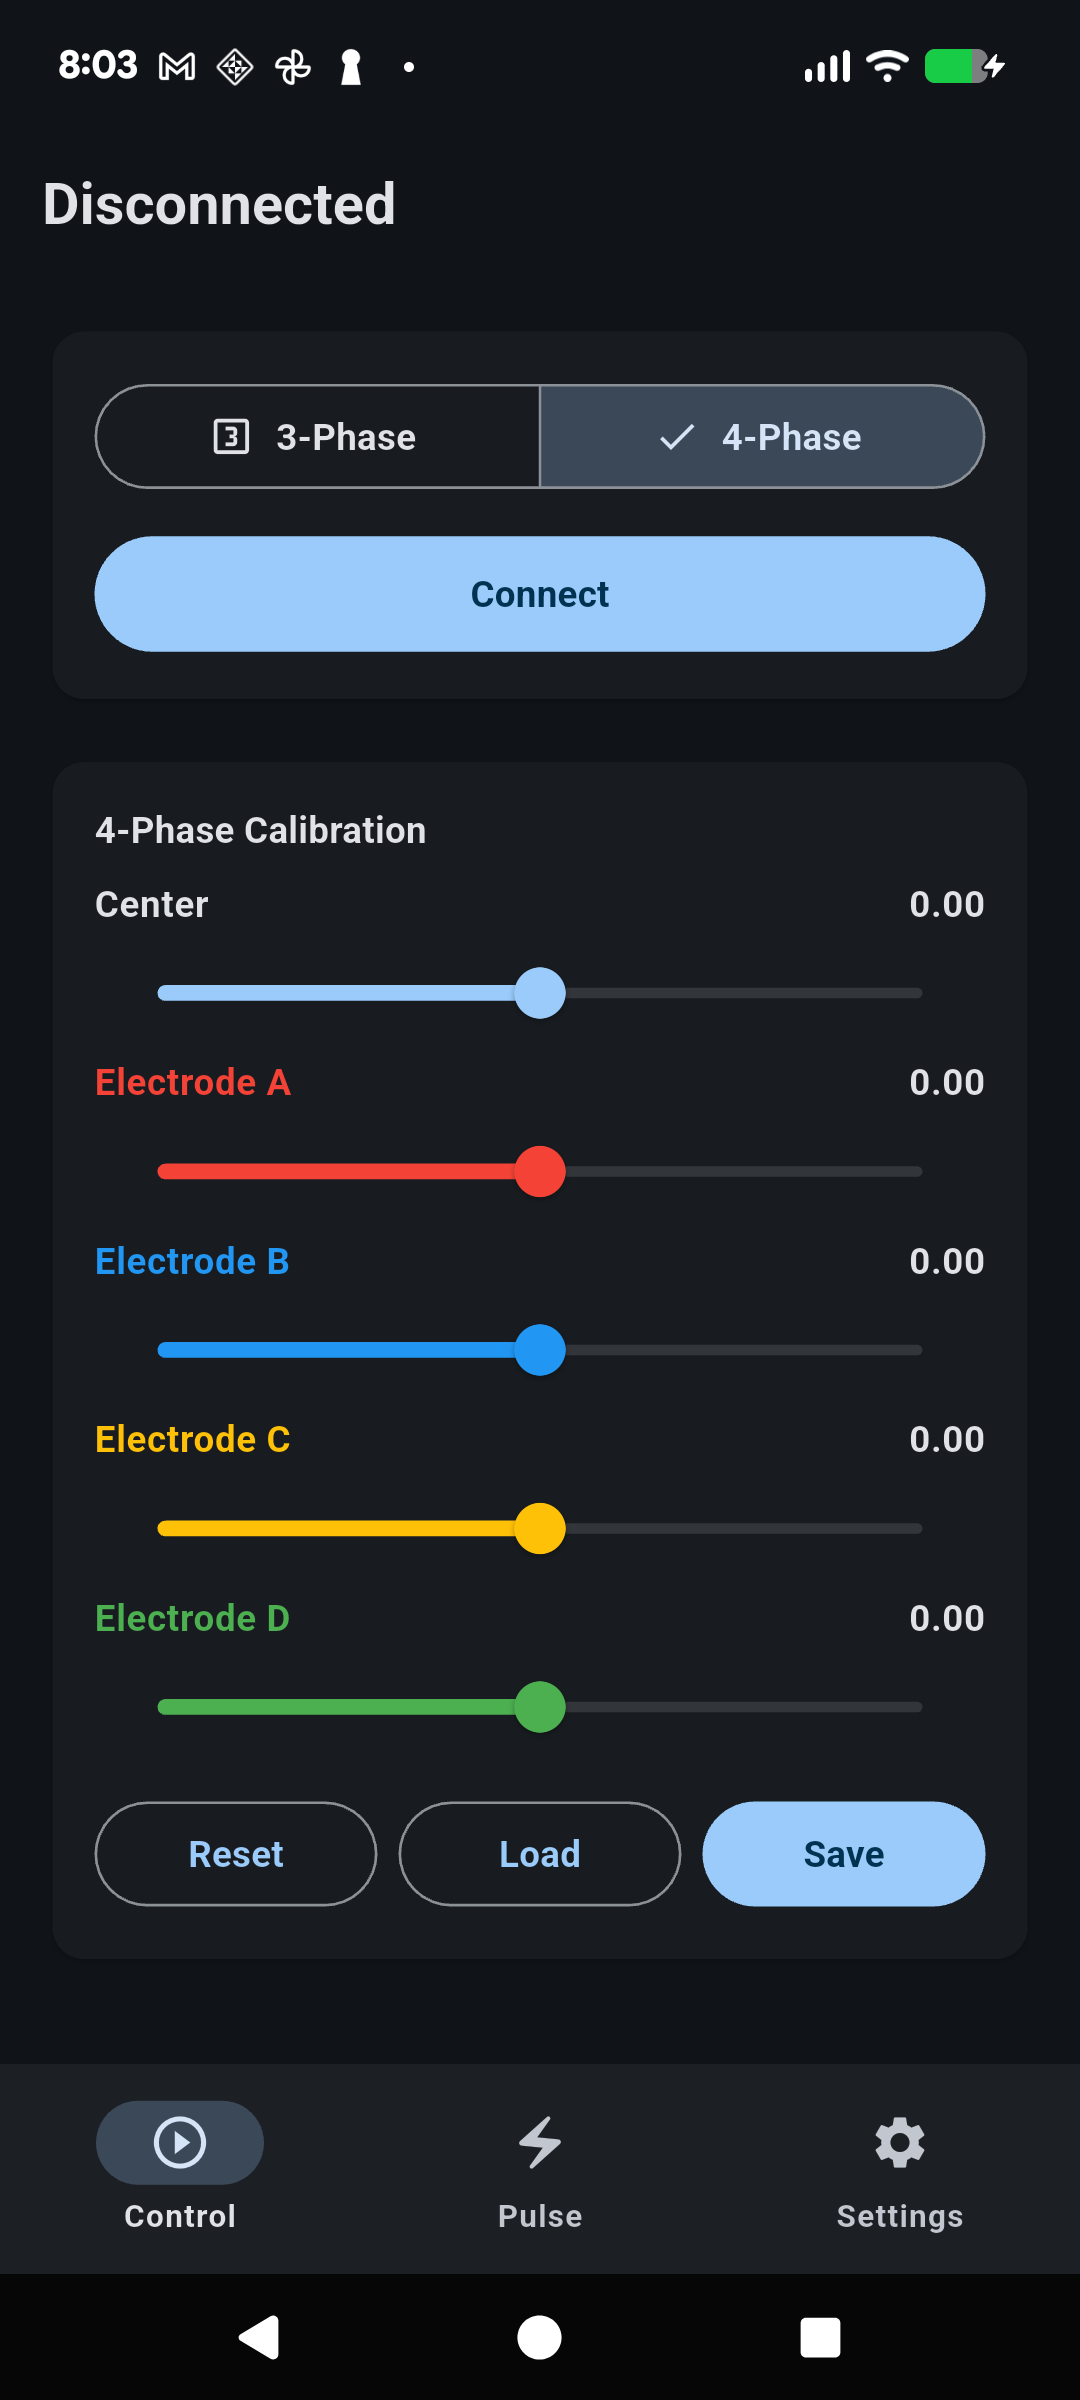
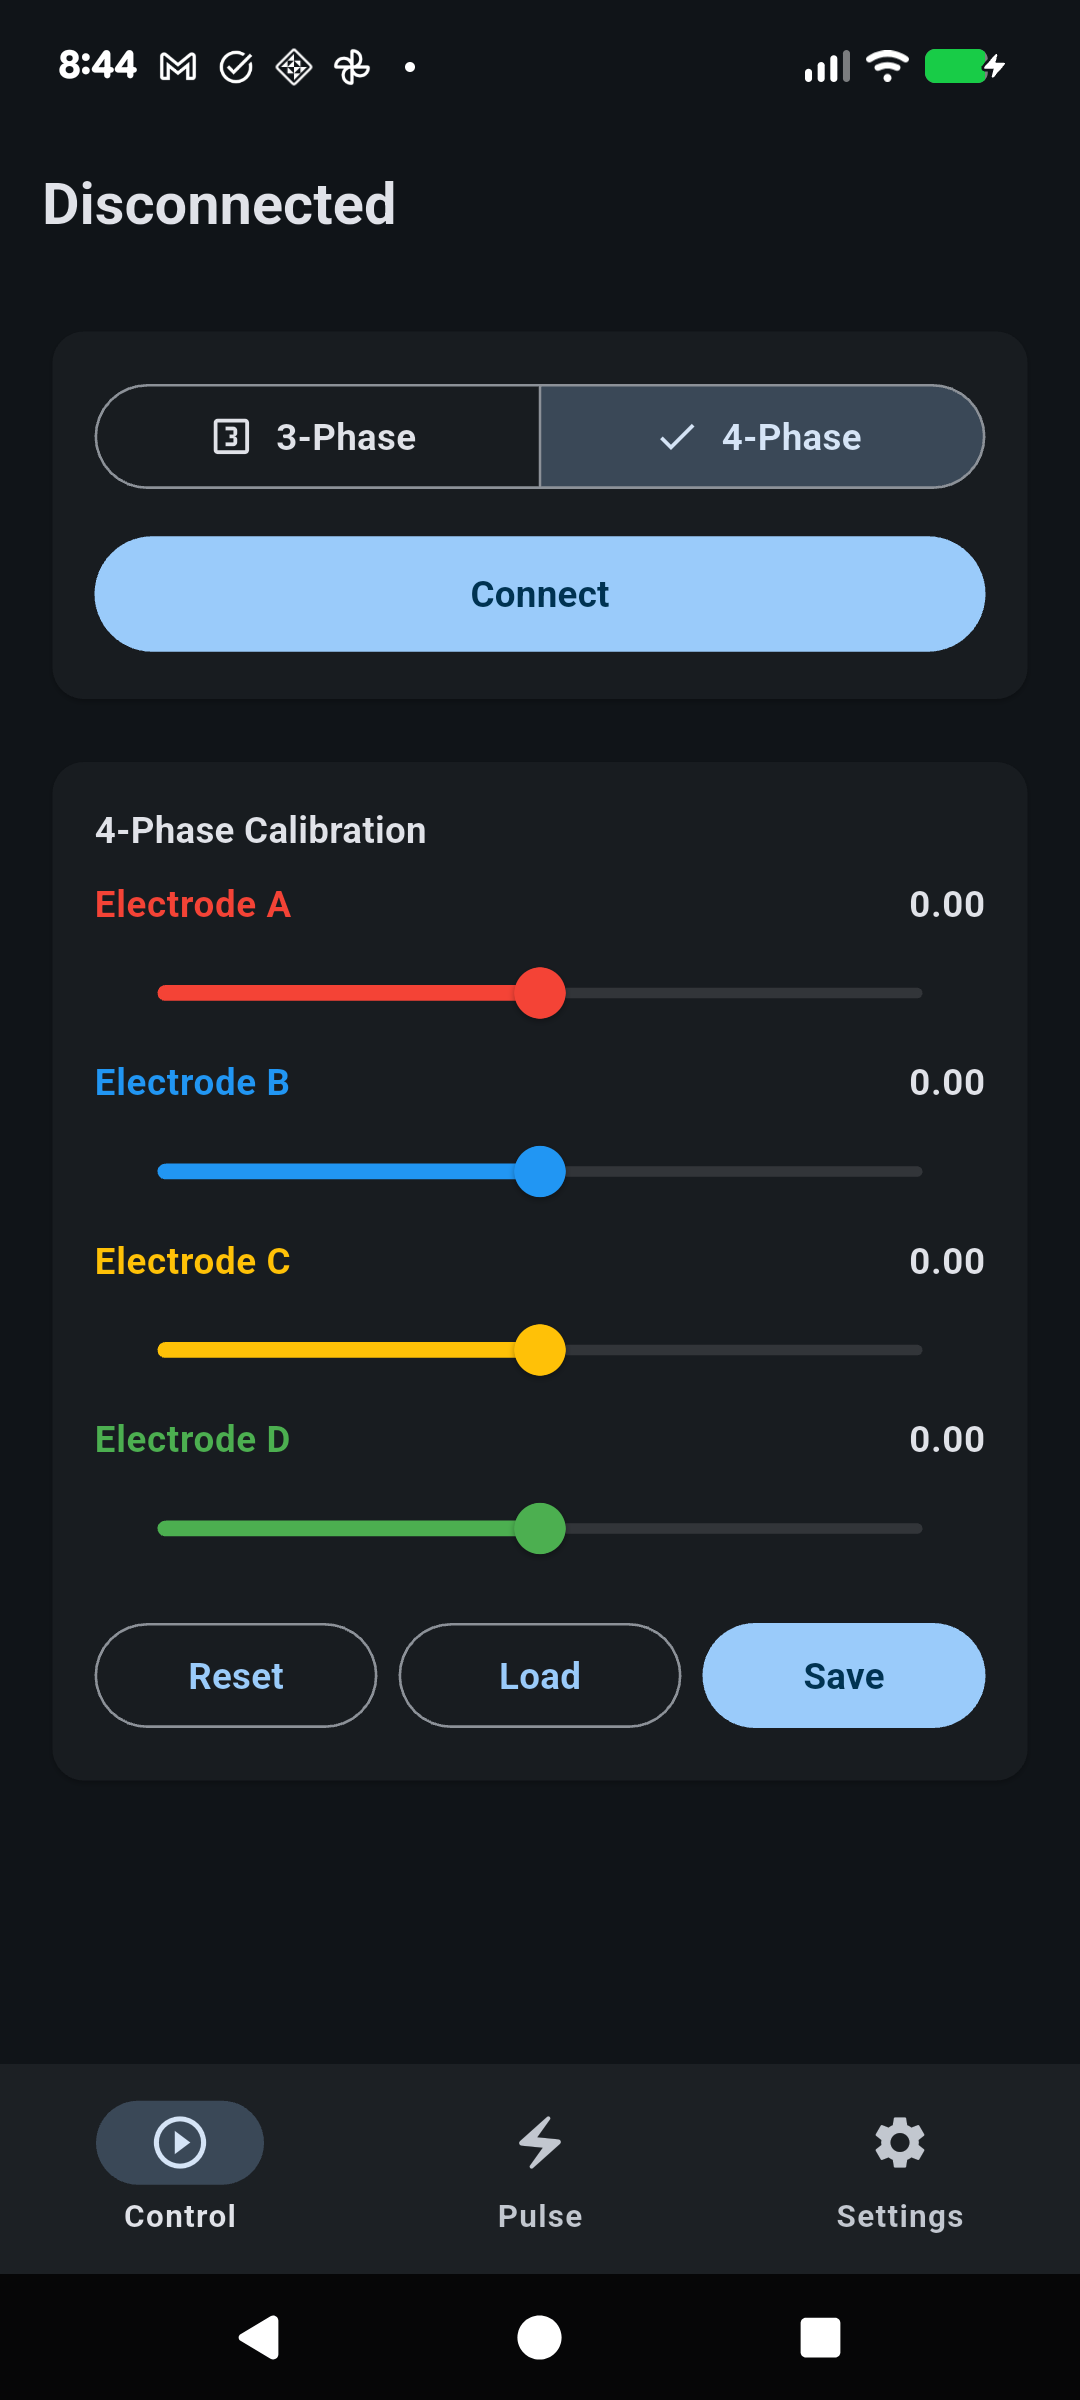
fix: remove unsupported 4-phase Center calibration and correct 3-phase output colors; bump version to 1.1.2

diff --git a/foc-companion/lib/screens/control_screen.dart b/foc-companion/lib/screens/control_screen.dart
@@ -4,6 +4,7 @@ import 'package:foc_companion/models/settings_models.dart';
 import 'package:foc_companion/providers/device_provider.dart';
 import 'package:foc_companion/providers/settings_provider.dart';
 import 'package:foc_companion/core/patterns.dart';
+import 'package:foc_companion/widgets/gradient_slider_track.dart';
 
 class ControlScreen extends StatelessWidget {
   const ControlScreen({super.key});
@@ -78,15 +79,14 @@ class _CalibrationCardState extends State<_CalibrationCard> {
             ),
             const SizedBox(height: 8),
             if (is4Phase) ...[
-              _buildSlider('Center', d.calibration4Center, (v) => d.calibration4Center = v),
               _buildSlider('Electrode A', d.calibration4A, (v) => d.calibration4A = v, color: Colors.red),
               _buildSlider('Electrode B', d.calibration4B, (v) => d.calibration4B = v, color: Colors.blue),
               _buildSlider('Electrode C', d.calibration4C, (v) => d.calibration4C = v, color: Colors.amber),
               _buildSlider('Electrode D', d.calibration4D, (v) => d.calibration4D = v, color: Colors.green),
             ] else ...[
-              _buildSlider('Center', d.calibration3Center, (v) => d.calibration3Center = v, color: Colors.red),
-              _buildSlider('Up', d.calibration3Up, (v) => d.calibration3Up = v, color: Colors.blue),
-              _buildSlider('Left', d.calibration3Left, (v) => d.calibration3Left = v, color: Colors.amber),
+              _buildSlider('Center', d.calibration3Center, (v) => d.calibration3Center = v),
+              _buildSlider('Up', d.calibration3Up, (v) => d.calibration3Up = v, color: Colors.red),
+              _buildLeftRightSlider(d.calibration3Left, (v) => d.calibration3Left = v),
             ],
             const SizedBox(height: 8),
             Row(
@@ -137,6 +137,40 @@ class _CalibrationCardState extends State<_CalibrationCard> {
           ],
         ),
       ),
+    );
+  }
+
+  Widget _buildLeftRightSlider(double value, void Function(double) onSet) {
+    const leftColor = Colors.blue;
+    const rightColor = Colors.amber;
+    return Column(
+      crossAxisAlignment: CrossAxisAlignment.start,
+      children: [
+        Row(
+          mainAxisAlignment: MainAxisAlignment.spaceBetween,
+          children: [
+            const Text('Left',
+                style: TextStyle(color: leftColor, fontWeight: FontWeight.w500)),
+            Text(value.toStringAsFixed(2)),
+            const Text('Right',
+                style: TextStyle(color: rightColor, fontWeight: FontWeight.w500)),
+          ],
+        ),
+        SliderTheme(
+          data: SliderTheme.of(context).copyWith(
+            trackShape: const GradientSliderTrackShape(
+              startColor: leftColor,
+              endColor: rightColor,
+            ),
+          ),
+          child: Slider(
+            value: value.clamp(-2.0, 2.0),
+            min: -2,
+            max: 2,
+            onChanged: (v) => setState(() => onSet(v)),
+          ),
+        ),
+      ],
     );
   }
 

diff --git a/foc-companion/lib/screens/device_settings_screen.dart b/foc-companion/lib/screens/device_settings_screen.dart
@@ -2,6 +2,7 @@ import 'package:flutter/material.dart';
 import 'package:provider/provider.dart';
 import 'package:foc_companion/models/settings_models.dart';
 import 'package:foc_companion/providers/settings_provider.dart';
+import 'package:foc_companion/widgets/gradient_slider_track.dart';
 
 class DeviceSettingsScreen extends StatefulWidget {
   const DeviceSettingsScreen({super.key});
@@ -29,7 +30,6 @@ class _DeviceSettingsScreenState extends State<DeviceSettingsScreen> {
             min: -2,
             max: 2,
             onChanged: (v) => setState(() => d.calibration3Center = v),
-            color: Colors.red,
           ),
           _buildSlider(
             label: "Up",
@@ -37,27 +37,16 @@ class _DeviceSettingsScreenState extends State<DeviceSettingsScreen> {
             min: -2,
             max: 2,
             onChanged: (v) => setState(() => d.calibration3Up = v),
-            color: Colors.blue,
+            color: Colors.red,
           ),
-          _buildSlider(
-            label: "Left",
+          _buildLeftRightSlider(
             value: d.calibration3Left,
-            min: -2,
-            max: 2,
             onChanged: (v) => setState(() => d.calibration3Left = v),
-            color: Colors.amber,
           ),
         ] else ...[
           const Text("4-Phase Calibration",
               style: TextStyle(fontSize: 18, fontWeight: FontWeight.bold)),
           const SizedBox(height: 10),
-          _buildSlider(
-            label: "Center",
-            value: d.calibration4Center,
-            min: -2,
-            max: 2,
-            onChanged: (v) => setState(() => d.calibration4Center = v),
-          ),
           _buildSlider(
             label: "Electrode A",
             value: d.calibration4A,
@@ -137,6 +126,43 @@ class _DeviceSettingsScreenState extends State<DeviceSettingsScreen> {
               ),
             ),
           ],
+        ),
+      ],
+    );
+  }
+
+  Widget _buildLeftRightSlider({
+    required double value,
+    required Function(double) onChanged,
+  }) {
+    const leftColor = Colors.blue;
+    const rightColor = Colors.amber;
+    return Column(
+      crossAxisAlignment: CrossAxisAlignment.start,
+      children: [
+        Row(
+          mainAxisAlignment: MainAxisAlignment.spaceBetween,
+          children: [
+            const Text('Left',
+                style: TextStyle(color: leftColor, fontWeight: FontWeight.w500)),
+            Text(value.toStringAsFixed(2)),
+            const Text('Right',
+                style: TextStyle(color: rightColor, fontWeight: FontWeight.w500)),
+          ],
+        ),
+        SliderTheme(
+          data: SliderTheme.of(context).copyWith(
+            trackShape: const GradientSliderTrackShape(
+              startColor: leftColor,
+              endColor: rightColor,
+            ),
+          ),
+          child: Slider(
+            value: value.clamp(-2.0, 2.0),
+            min: -2,
+            max: 2,
+            onChanged: onChanged,
+          ),
         ),
       ],
     );

diff --git a/foc-companion/lib/widgets/gradient_slider_track.dart b/foc-companion/lib/widgets/gradient_slider_track.dart
@@ -1,0 +1,52 @@
+import 'package:flutter/material.dart';
+
+/// Paints the full slider track as a horizontal linear gradient,
+/// ignoring the active/inactive split used by the default track shape.
+class GradientSliderTrackShape extends RoundedRectSliderTrackShape {
+  final Color startColor;
+  final Color endColor;
+
+  const GradientSliderTrackShape({
+    required this.startColor,
+    required this.endColor,
+  });
+
+  @override
+  void paint(
+    PaintingContext context,
+    Offset offset, {
+    required RenderBox parentBox,
+    required SliderThemeData sliderTheme,
+    required Animation<double> enableAnimation,
+    required TextDirection textDirection,
+    required Offset thumbCenter,
+    Offset? secondaryOffset,
+    bool isDiscrete = false,
+    bool isEnabled = false,
+    double additionalActiveTrackHeight = 2,
+  }) {
+    final trackRect = getPreferredRect(
+      parentBox: parentBox,
+      offset: offset,
+      sliderTheme: sliderTheme,
+      isEnabled: isEnabled,
+      isDiscrete: isDiscrete,
+    );
+
+    final paint = Paint()
+      ..shader =
+          LinearGradient(colors: [startColor, endColor]).createShader(trackRect);
+
+    final radius = Radius.circular(trackRect.height / 2);
+    context.canvas.drawRRect(
+      RRect.fromRectAndCorners(
+        trackRect,
+        topLeft: radius,
+        bottomLeft: radius,
+        topRight: radius,
+        bottomRight: radius,
+      ),
+      paint,
+    );
+  }
+}

diff --git a/foc-companion/lib/core/command_loop.dart b/foc-companion/lib/core/command_loop.dart
@@ -172,7 +172,6 @@ class FourPhaseCommandLoop {
     send(AxisType.AXIS_PULSE_RISE_TIME_CYCLES, _settings.pulse.pulseRiseTime);
     send(AxisType.AXIS_PULSE_INTERVAL_RANDOM_PERCENT,
         _settings.pulse.pulseIntervalRandom / 100.0);
-    send(AxisType.AXIS_CALIBRATION_4_CENTER, _settings.device.calibration4Center);
     send(AxisType.AXIS_CALIBRATION_4_A, _settings.device.calibration4A);
     send(AxisType.AXIS_CALIBRATION_4_B, _settings.device.calibration4B);
     send(AxisType.AXIS_CALIBRATION_4_C, _settings.device.calibration4C);
@@ -221,7 +220,6 @@ class FourPhaseCommandLoop {
     await send(AxisType.AXIS_PULSE_RISE_TIME_CYCLES, p.pulseRiseTime);
     await send(AxisType.AXIS_PULSE_INTERVAL_RANDOM_PERCENT,
         p.pulseIntervalRandom / 100.0);
-    await send(AxisType.AXIS_CALIBRATION_4_CENTER, d.calibration4Center);
     await send(AxisType.AXIS_CALIBRATION_4_A, d.calibration4A);
     await send(AxisType.AXIS_CALIBRATION_4_B, d.calibration4B);
     await send(AxisType.AXIS_CALIBRATION_4_C, d.calibration4C);

diff --git a/foc-companion/lib/models/settings_models.dart b/foc-companion/lib/models/settings_models.dart
@@ -107,7 +107,6 @@ class DeviceSettings {
   double calibration3Left = 0.0;
 
   // 4-Phase calibration
-  double calibration4Center = 0.0;
   double calibration4A = 0.0;
   double calibration4B = 0.0;
   double calibration4C = 0.0;
@@ -121,7 +120,6 @@ class DeviceSettings {
         'calibration3Center': calibration3Center,
         'calibration3Up': calibration3Up,
         'calibration3Left': calibration3Left,
-        'calibration4Center': calibration4Center,
         'calibration4A': calibration4A,
         'calibration4B': calibration4B,
         'calibration4C': calibration4C,
@@ -139,7 +137,6 @@ class DeviceSettings {
     calibration3Center = json['calibration3Center'] ?? -0.5;
     calibration3Up = json['calibration3Up'] ?? 0.0;
     calibration3Left = json['calibration3Left'] ?? 0.0;
-    calibration4Center = json['calibration4Center'] ?? 0.0;
     calibration4A = json['calibration4A'] ?? 0.0;
     calibration4B = json['calibration4B'] ?? 0.0;
     calibration4C = json['calibration4C'] ?? 0.0;

diff --git a/foc-companion/lib/providers/settings_provider.dart b/foc-companion/lib/providers/settings_provider.dart
@@ -54,7 +54,6 @@ class SettingsProvider with ChangeNotifier {
       ..calibration3Center = d.calibration3Center
       ..calibration3Up = d.calibration3Up
       ..calibration3Left = d.calibration3Left
-      ..calibration4Center = d.calibration4Center
       ..calibration4A = d.calibration4A
       ..calibration4B = d.calibration4B
       ..calibration4C = d.calibration4C
@@ -71,7 +70,6 @@ class SettingsProvider with ChangeNotifier {
       ..calibration3Center = saved.calibration3Center
       ..calibration3Up = saved.calibration3Up
       ..calibration3Left = saved.calibration3Left
-      ..calibration4Center = saved.calibration4Center
       ..calibration4A = saved.calibration4A
       ..calibration4B = saved.calibration4B
       ..calibration4C = saved.calibration4C
